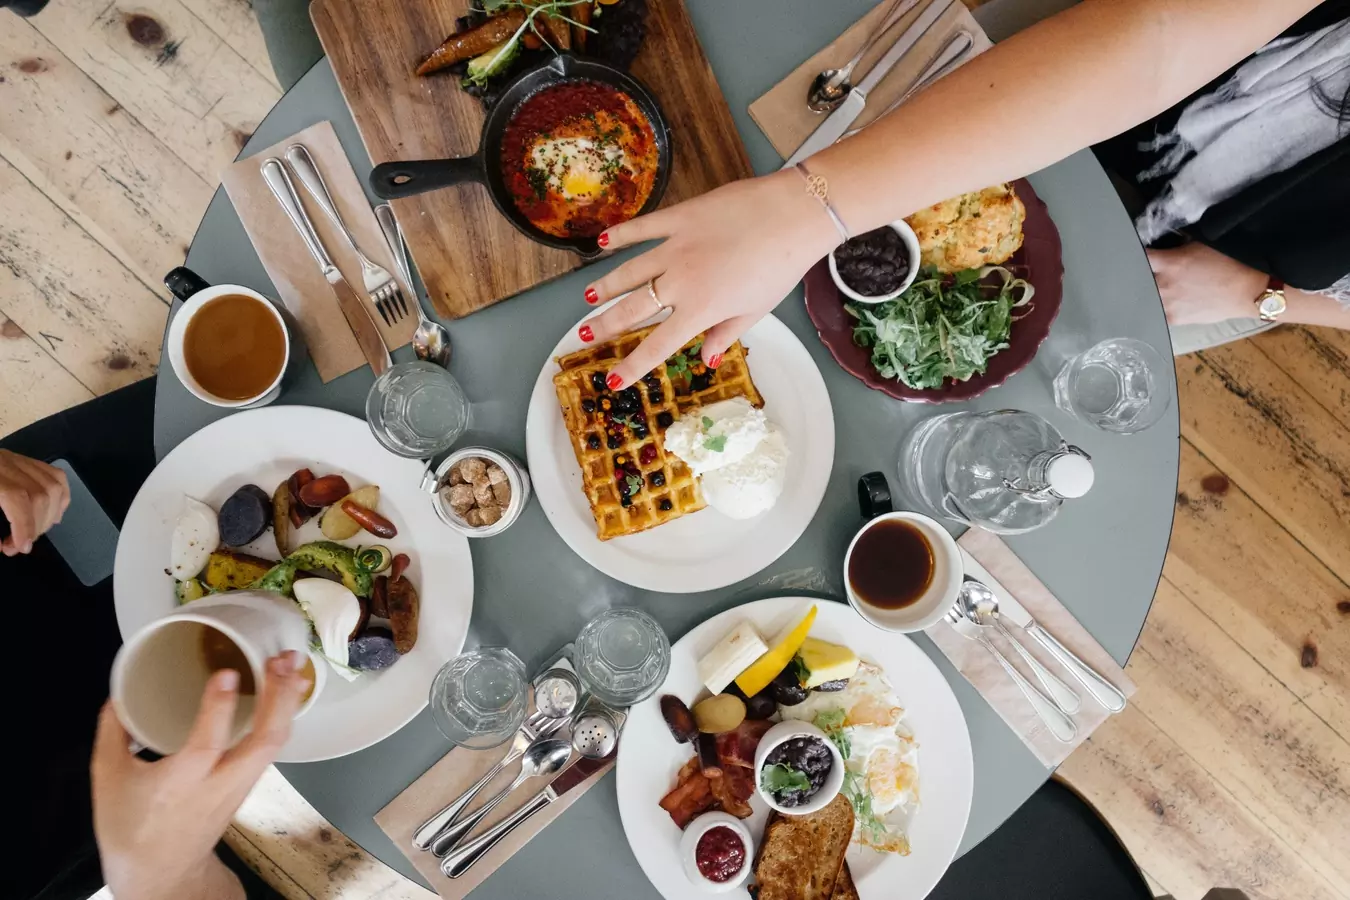
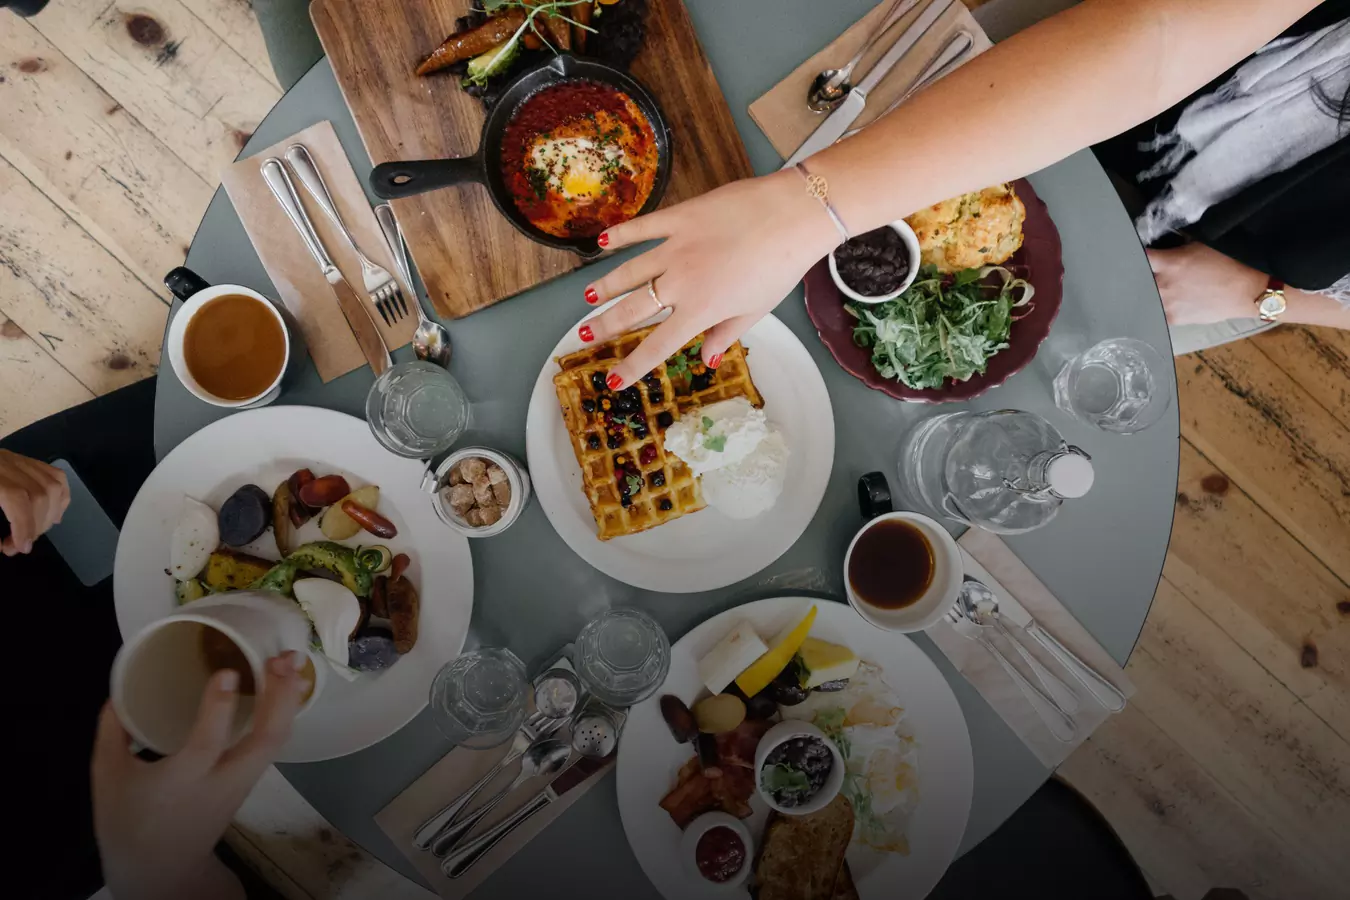
fix performance and accessibility

diff --git a/src/scripts/components/hero-element/heroElement.ts b/src/scripts/components/hero-element/heroElement.ts
@@ -51,9 +51,10 @@ class HeroElement extends CommonElement {
     }
 
     /* CSS Gradient Generator https://cssgradient.io/ */
+    /* <div class="hero__background" style="background-image: linear-gradient(0deg, rgba(0, 0, 0, 0.6) 0%, rgba(0, 0, 0, 0.4) 40%, rgba(0, 0, 0, 0.1) 80%), url('${this.background}')"> */
     render() {
         return html`
-            <div class="hero__background" style="background-image: linear-gradient(0deg, rgba(0, 0, 0, 0.6) 0%, rgba(0, 0, 0, 0.4) 40%, rgba(0, 0, 0, 0.1) 80%), url('${this.background}')">
+            <div class="hero__background" style="background-image: url('${this.background}')">
                 <div class="hero__placeholder">
                     <h2 tabindex="0">${this.greeting}</h2>
                     <h1 tabindex="0">${this.name}</h1>

diff --git a/src/scripts/components/my-profile/myProfile.ts b/src/scripts/components/my-profile/myProfile.ts
@@ -87,7 +87,7 @@ class MyProfile extends CommonElement {
                         </div>
                     </div>
                     <div class="profile__image_container">
-                        <img class="profile__image" src='${this.image}' alt='Indra Mahkota'/>
+                        <img class="profile__image" src='${this.image}' alt='Indra Mahkota, Developer who build this website'/>
                     </div>
                 </div>
             </div>
